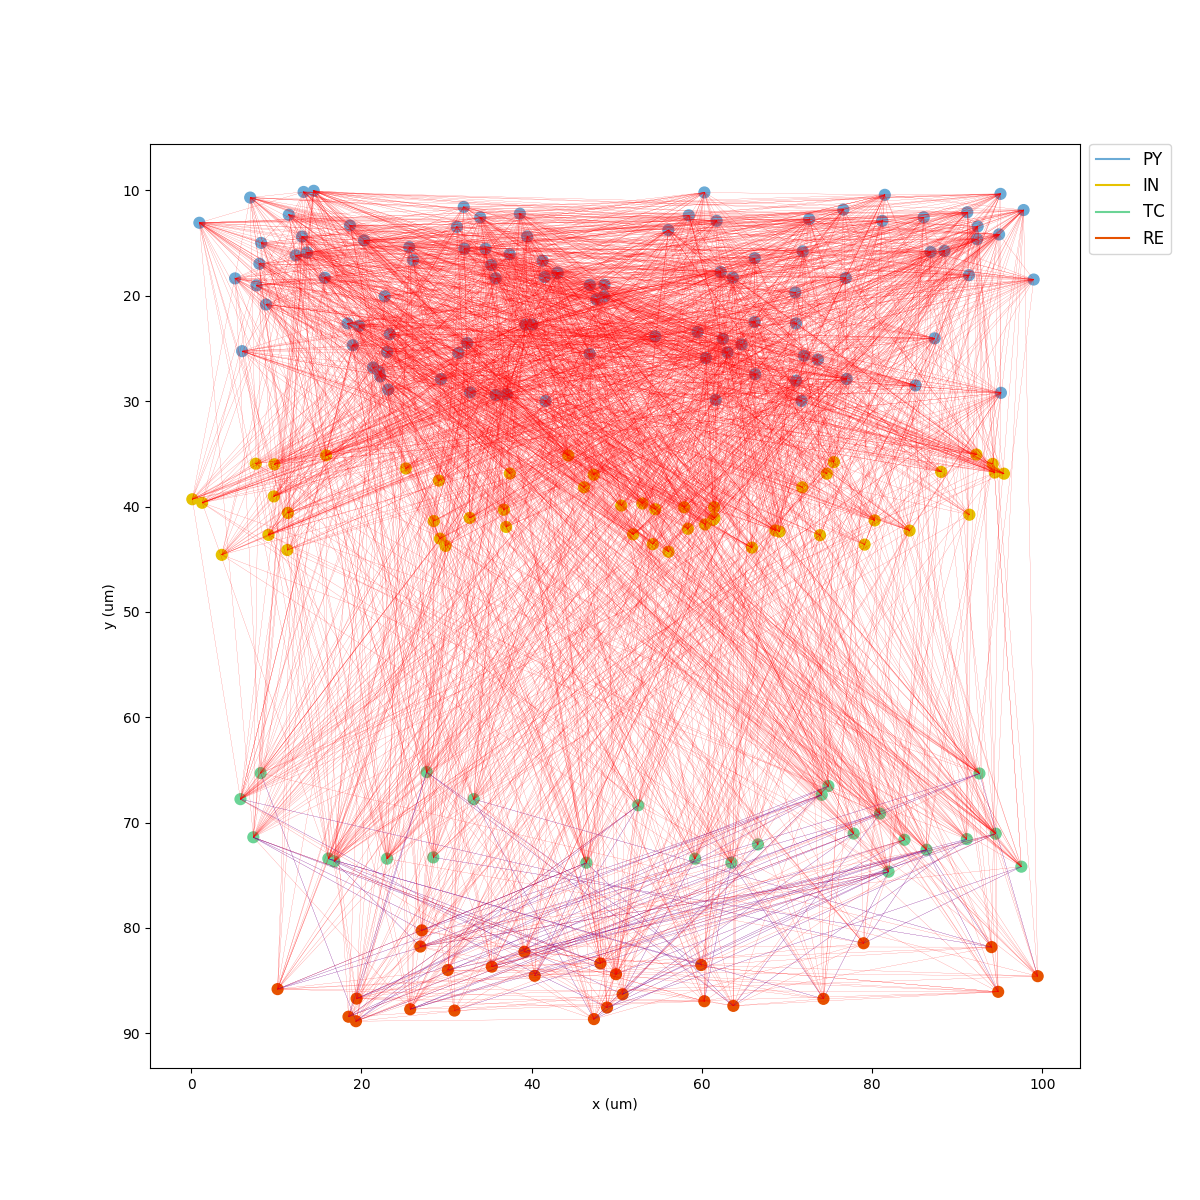
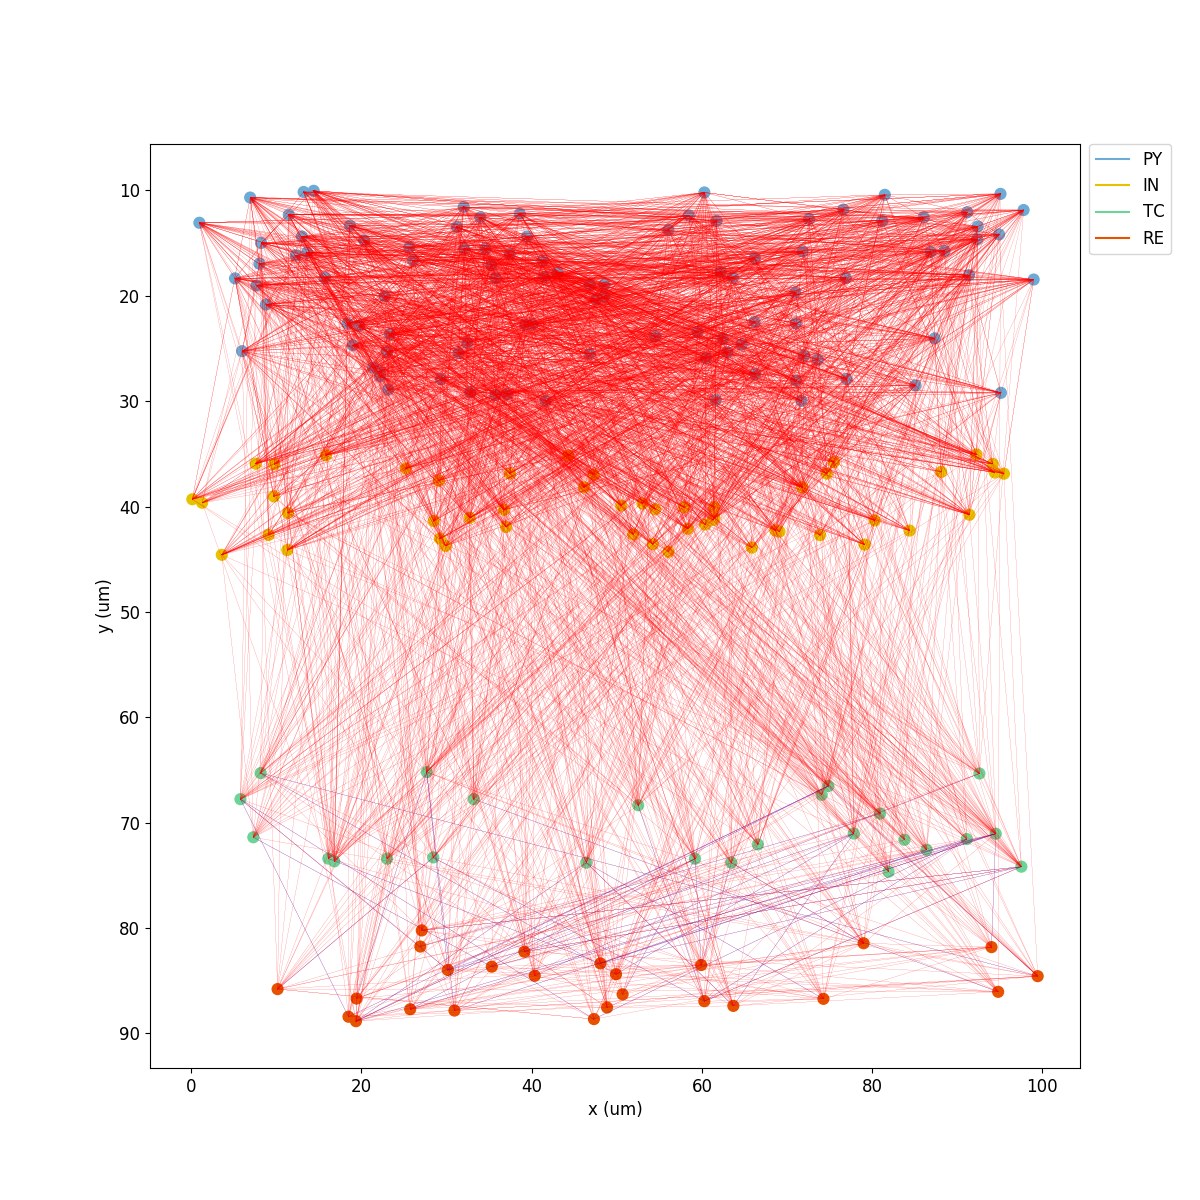
updated model to reproduce netpyne paper fig

diff --git a/netParams.py b/netParams.py
@@ -1,9 +1,7 @@
 """
-knoxParams.py 
+netParams.py 
 
 netParams is a dict containing a set of network parameters using a standardized structure
-
-simConfig is a dict containing a set of simulation configurations using a standardized structure
 
 refs:
 Z. F. Mainen and T. J. Sejnowski (1996) Influence of dendritic structure on 
@@ -57,7 +55,6 @@ for i in range(len(connMat)):
 """
 
 netParams = specs.NetParams()   # object of class NetParams to store the network parameters
-simConfig = specs.SimConfig()   # object of class SimConfig to store the simulation configuration
 
 ###############################################################################
 #
@@ -68,7 +65,7 @@ simConfig = specs.SimConfig()   # object of class SimConfig to store the simulat
 ###############################################################################
 # NETWORK PARAMETERS
 ###############################################################################
-N=100; N_PY=N; N_IN=N/2; N_TC=N/4; N_RE=N/4;
+N=100; N_PY=N; N_IN=int(N/2); N_TC=int(N/4); N_RE=int(N/4);
 netParams.narrowdiam = 5
 netParams.widediam = 10
 
@@ -143,6 +140,7 @@ netParams.cellParams['mINrule'] = cellRule
 
 ### TC (Destexhe et al., 1996; Bazhenov et al.,2002)
 cellRule = netParams.importCellParams(label='TCrule', conds={'cellType': 'TC', 'cellModel': 'HH_TC'}, fileName='TC.tem', cellName='sTC')
+
 #cellRule = netParams.importCellParams(label='TCrule', conds={'cellType': 'TC', 'cellModel': 'HH_TC'}, fileName='TC.py', cellName='sTC')
 """
 cellRule['secs']['soma']['mechs']['hh2']={'gnabar': 0.09, 'gkbar': 0.01, 'vtraub': -25.0}
@@ -179,8 +177,8 @@ netParams.synMechParams['AMPA'] = {'mod': 'ExpSyn', 'tau': 0.1, 'e': 0}
 netParams.synMechParams['AMPA_S'] = {'mod': 'AMPA_S', 'Cmax': 0.5, 'Cdur': 0.3, 'Alpha': 0.94, 'Beta': 0.18, 'Erev': 0} #}
 
 # NMDA
-#netParams.synMechParams['NMDA'] = {'mod': 'Exp2Syn', 'tau1': 0.15, 'tau2': 15, 'e': 0}  # NMDA
-netParams.synMechParams['NMDA'] = {'mod': 'NMDA', 'Cmax': 1.0, 'Cdur': 1.0, 'Alpha': 0.072, 'Beta': 0.0066, 'Erev': 0} #}
+netParams.synMechParams['NMDA'] = {'mod': 'Exp2Syn', 'tau1': 0.15, 'tau2': 15, 'e': 0}  # NMDA
+#netParams.synMechParams['NMDA'] = {'mod': 'NMDA', 'Cmax': 1.0, 'Cdur': 1.0, 'Alpha': 0.072, 'Beta': 0.0066, 'Erev': 0} #}
 
 # GABAa_S
 #netParams.synMechParams['GABAA'] = {'mod': 'Exp2Syn', 'tau1': 0.07, 'tau2': 9.1, 'e': -80}  # GABAA
@@ -397,76 +395,4 @@ netParams.connParams['TC->IN'] = {
     'probability': ThlCrxProb}
     #'connList': smallWorldConn(N_TC,N_IN,p,K)}   
 
-
-
-###############################################################################
-# SIMULATION PARAMETERS
-###############################################################################
-
-#------------------------------------------------------------------------------
-# SIMULATION CONFIGURATION
-#------------------------------------------------------------------------------
-
-# Simulation parameters
-simConfig.checkErrors=True
-simConfig.trans = 10000
-simConfig.Dt = 0.1
-simConfig.steps_per_ms = 1/simConfig.Dt
-simConfig.npoints = 30000
-
-simConfig.duration = 10*1000 # simConfig.trans + simConfig.npoints * simConfig.Dt # Duration of the simulation, in ms
-simConfig.dt = 0.1 # Internal integration timestep to use
-simConfig.hParams['celsius'] = 36
-simConfig.hParams['v_init'] = -70
-simConfig.seeds = {'conn': 1, 'stim': 1, 'loc': 1} # Seeds for randomizers (connectivity, input stimulation and cell locations)
-simConfig.verbose = False  # show detailed messages 
-
-# Recording 
-simConfig.recordCells = []  # which cells to record from
-"""
-simConfig.recordTraces = {'V_soma':{'sec':'soma','loc':0.5,'var':'v'},
-                          'V_dend':{'sec':'dend','loc':0.5,'var':'v'},
-                          'AMPA_i': {'sec':'soma', 'loc':'0.5', 'synMech':'AMPA', 'var':'AMPA_i'}}
-"""
-simConfig.recordTraces = {'V_soma':{'sec':'soma','loc':0.5,'var':'v'}}
-
-simConfig.recordStim = True  # record spikes of cell stims
-simConfig.recordStep = 0.1 # Step size in ms to save data (eg. V traces, LFP, etc)
-
-# Saving
-simConfig.simLabel = "trial1"
-simConfig.saveFolder = "data_knox_v1"
-simConfig.filename = 'knox_v1'  # Set file output name
-simConfig.saveFileStep = 1000 # step size in ms to save data to disk
-#simConfig.savePickle = True # Whether or not to write spikes etc. to a .mat file
-#simConfig.saveJson = True
-#simConfig.saveMat = True
-#simConfig.saveDpk = False
-
-# Analysis and plotting 
-simConfig.analysis['plotRaster'] = {'include': ['PY', 'IN', 'TC', 'RE'], 'orderInverse': True} #True # Whether or not to plot a raster
-#simConfig.analysis['plotRaster'] = True  # Plot raster
-simConfig.analysis['plotTraces'] = {'include': [('PY',0),('IN',0),('TC',10),('RE',10)]} # plot recorded traces for this list of cells
-
-simConfig.analysis['plotRatePSD'] = {'include': ['PY', 'IN', 'TC', 'RE'], 'Fs': 50, 'smooth': 10} # plot recorded traces for this list of cells
-
-simConfig.addAnalysis('plot2Dnet', {'include': ['PY', 'IN', 'TC', 'RE'],  'showConns': True, 'saveFig': './images/plot2Dnet.png', 'showFig': False})
-#simConfig.addAnalysis('plotShape', {'showSyns': True})
-#simConfig.addAnalysis('plotConn', {'include': ['allCells'], 'feature': 'strength'})
-#simConfig.analysis.plotConn(include=['allCells'], feature='strength', groupBy='pop', figSize=(9,9), showFig=True)
-
-# netParams
-simConfig.stimtime = 10050
-simConfig.randomstim = 0
-
-simConfig.field = 0
-simConfig.fieldg = 0
-simConfig.ampafield = 0
-simConfig.gabaafield = 0
-simConfig.gababfield = 0
-simConfig.gababTCfield = 0
-
-simConfig.runStopAt = simConfig.duration
-
-sim.createSimulateAnalyze(netParams = netParams, simConfig = simConfig)
 

diff --git a/cfg.py b/cfg.py
@@ -1,0 +1,59 @@
+#------------------------------------------------------------------------------
+# SIMULATION CONFIGURATION
+#------------------------------------------------------------------------------
+
+from netpyne import specs
+
+simConfig = specs.SimConfig()   # object of class SimConfig to store the simulation configuration
+
+# Simulation parameters
+simConfig.checkErrors=False
+simConfig.trans = 10000
+simConfig.Dt = 0.1
+simConfig.steps_per_ms = 1/simConfig.Dt
+simConfig.npoints = 30000
+
+simConfig.duration = 2*1000 # simConfig.trans + simConfig.npoints * simConfig.Dt # Duration of the simulation, in ms
+simConfig.dt = 0.1 # Internal integration timestep to use
+simConfig.hParams['celsius'] = 36
+simConfig.hParams['v_init'] = -70
+simConfig.seeds = {'conn': 1, 'stim': 1, 'loc': 1} # Seeds for randomizers (connectivity, input stimulation and cell locations)
+simConfig.verbose = False  # show detailed messages 
+
+# Recording 
+simConfig.recordCells = []  # which cells to record from
+"""
+simConfig.recordTraces = {'V_soma':{'sec':'soma','loc':0.5,'var':'v'},
+                          'V_dend':{'sec':'dend','loc':0.5,'var':'v'},
+                          'AMPA_i': {'sec':'soma', 'loc':'0.5', 'synMech':'AMPA', 'var':'AMPA_i'}}
+"""
+simConfig.recordTraces = {'V_soma':{'sec':'soma','loc':0.5,'var':'v'}}
+
+simConfig.recordStim = True  # record spikes of cell stims
+simConfig.recordStep = 0.1 # Step size in ms to save data (eg. V traces, LFP, etc)
+
+# Saving
+simConfig.simLabel = "trial1"
+simConfig.saveFolder = "data_knox_v1"
+simConfig.filename = 'knox_v1'  # Set file output name
+simConfig.saveFileStep = 1000 # step size in ms to save data to disk
+#simConfig.saveJson = True
+
+# Analysis and plotting 
+simConfig.analysis['plotRaster'] = {'include': ['PY', 'IN', 'TC', 'RE'], 'timeRange': [1200,2000], 'orderInverse': True} #True # Whether or not to plot a raster
+simConfig.analysis['plotTraces'] = {'include': [('PY',0),('IN',0),('TC',10),('RE',10)], 'timeRange': [1200,2000], 'oneFigPer': 'trace', 'overlay': True} # plot recorded traces for this list of cells
+#simConfig.analysis['plot2Dnet'] = {'include': ['PY', 'IN', 'TC', 'RE'],  'showConns': True, 'saveFig': './images/plot2Dnet.png', 'showFig': False})
+#simConfig.analysis.plotConn(include=['allCells'], feature='strength', groupBy='pop', figSize=(9,9), showFig=True)
+
+# original parameters
+simConfig.stimtime = 10050
+simConfig.randomstim = 0
+
+simConfig.field = 0
+simConfig.fieldg = 0
+simConfig.ampafield = 0
+simConfig.gabaafield = 0
+simConfig.gababfield = 0
+simConfig.gababTCfield = 0
+
+simConfig.runStopAt = simConfig.duration

diff --git a/mINr.py b/mINr.py
@@ -2,10 +2,6 @@
 from neuron import h
 from math import pi
 
-print "-------------------------------------------------------------------"
-print "<< defining template for two-compartment mINr cell >>"
-print " "
-
 class mINr:
   def __init__ (self,ID=0,ty=0,col=0,rho=50.0,kappa=10.0,soma_pas=False):
     self.ID=ID
@@ -84,8 +80,3 @@ class mINr:
     self.soma.ek = dend.ek = -90
     self.soma.ena = dend.ena = 60
     self.soma.eca = dend.eca = 140
-
-print " "
-print "<< mPYr: for axosomatic compartment fast INa, fast IKv, INa(p) >>"
-print "<< mPYr: for dendritic  compartment Ikm, IKCa, IHVA, IKL, INa(p) >>"
-print "-------------------------------------------------------------------"

diff --git a/mPYr.py b/mPYr.py
@@ -2,9 +2,6 @@
 from neuron import h
 from math import pi
 
-print "-------------------------------------------------------------------"
-print "<< defining template for two-compartment mPYr cell >>"
-print " "
 
 class mPYr:
   def __init__ (self,ID=0,ty=0,col=0,rho=165.0,kappa=10.0,soma_pas=False):
@@ -91,8 +88,3 @@ class mPYr:
     self.soma.ek = dend.ek = -90
     self.soma.ena = dend.ena = 50
     self.soma.eca = dend.eca = 140
-
-print " "
-print "<< mPYr: for axosomatic compartment fast INa, fast IKv, INa(p) >>"
-print "<< mPYr: for dendritic  compartment Ikm, IKCa, IHVA, IKL, INa(p) >>"
-print "-------------------------------------------------------------------"

diff --git a/init.py b/init.py
@@ -1,0 +1,5 @@
+import netParams  # import parameters file
+import cfg
+from netpyne import sim  # import netpyne init module
+
+sim.createSimulateAnalyze(netParams = netParams.netParams, simConfig = cfg.simConfig)  # create and simulate network

diff --git a/README.md b/README.md
@@ -1,0 +1,24 @@
+# M1NetworkModel
+## Description
+NetPyNE (www.netpyne.org) version of a model of a thalamocortical network with epilepsy.
+
+Original model and publication: https://modeldb.yale.edu/234233 (original model by Andrew Knox)
+
+## Setup and execution
+
+Requires NEURON with Python . 
+
+1. Type `nrnivmodl mod`. This should create a directory called either i686 or x86_64, depending on your computer's architecture. 
+2. To run type: `python init.py`
+
+## Overview of file structure:
+
+* /init.py: Main executable; calls functions from other modules. Sets what parameter file to use.
+
+* /netParams.py: Network parameters
+
+* /cfg.py: Simulation configuration
+
+
+For further information please contact: salvadordura@gmail.com 
+
